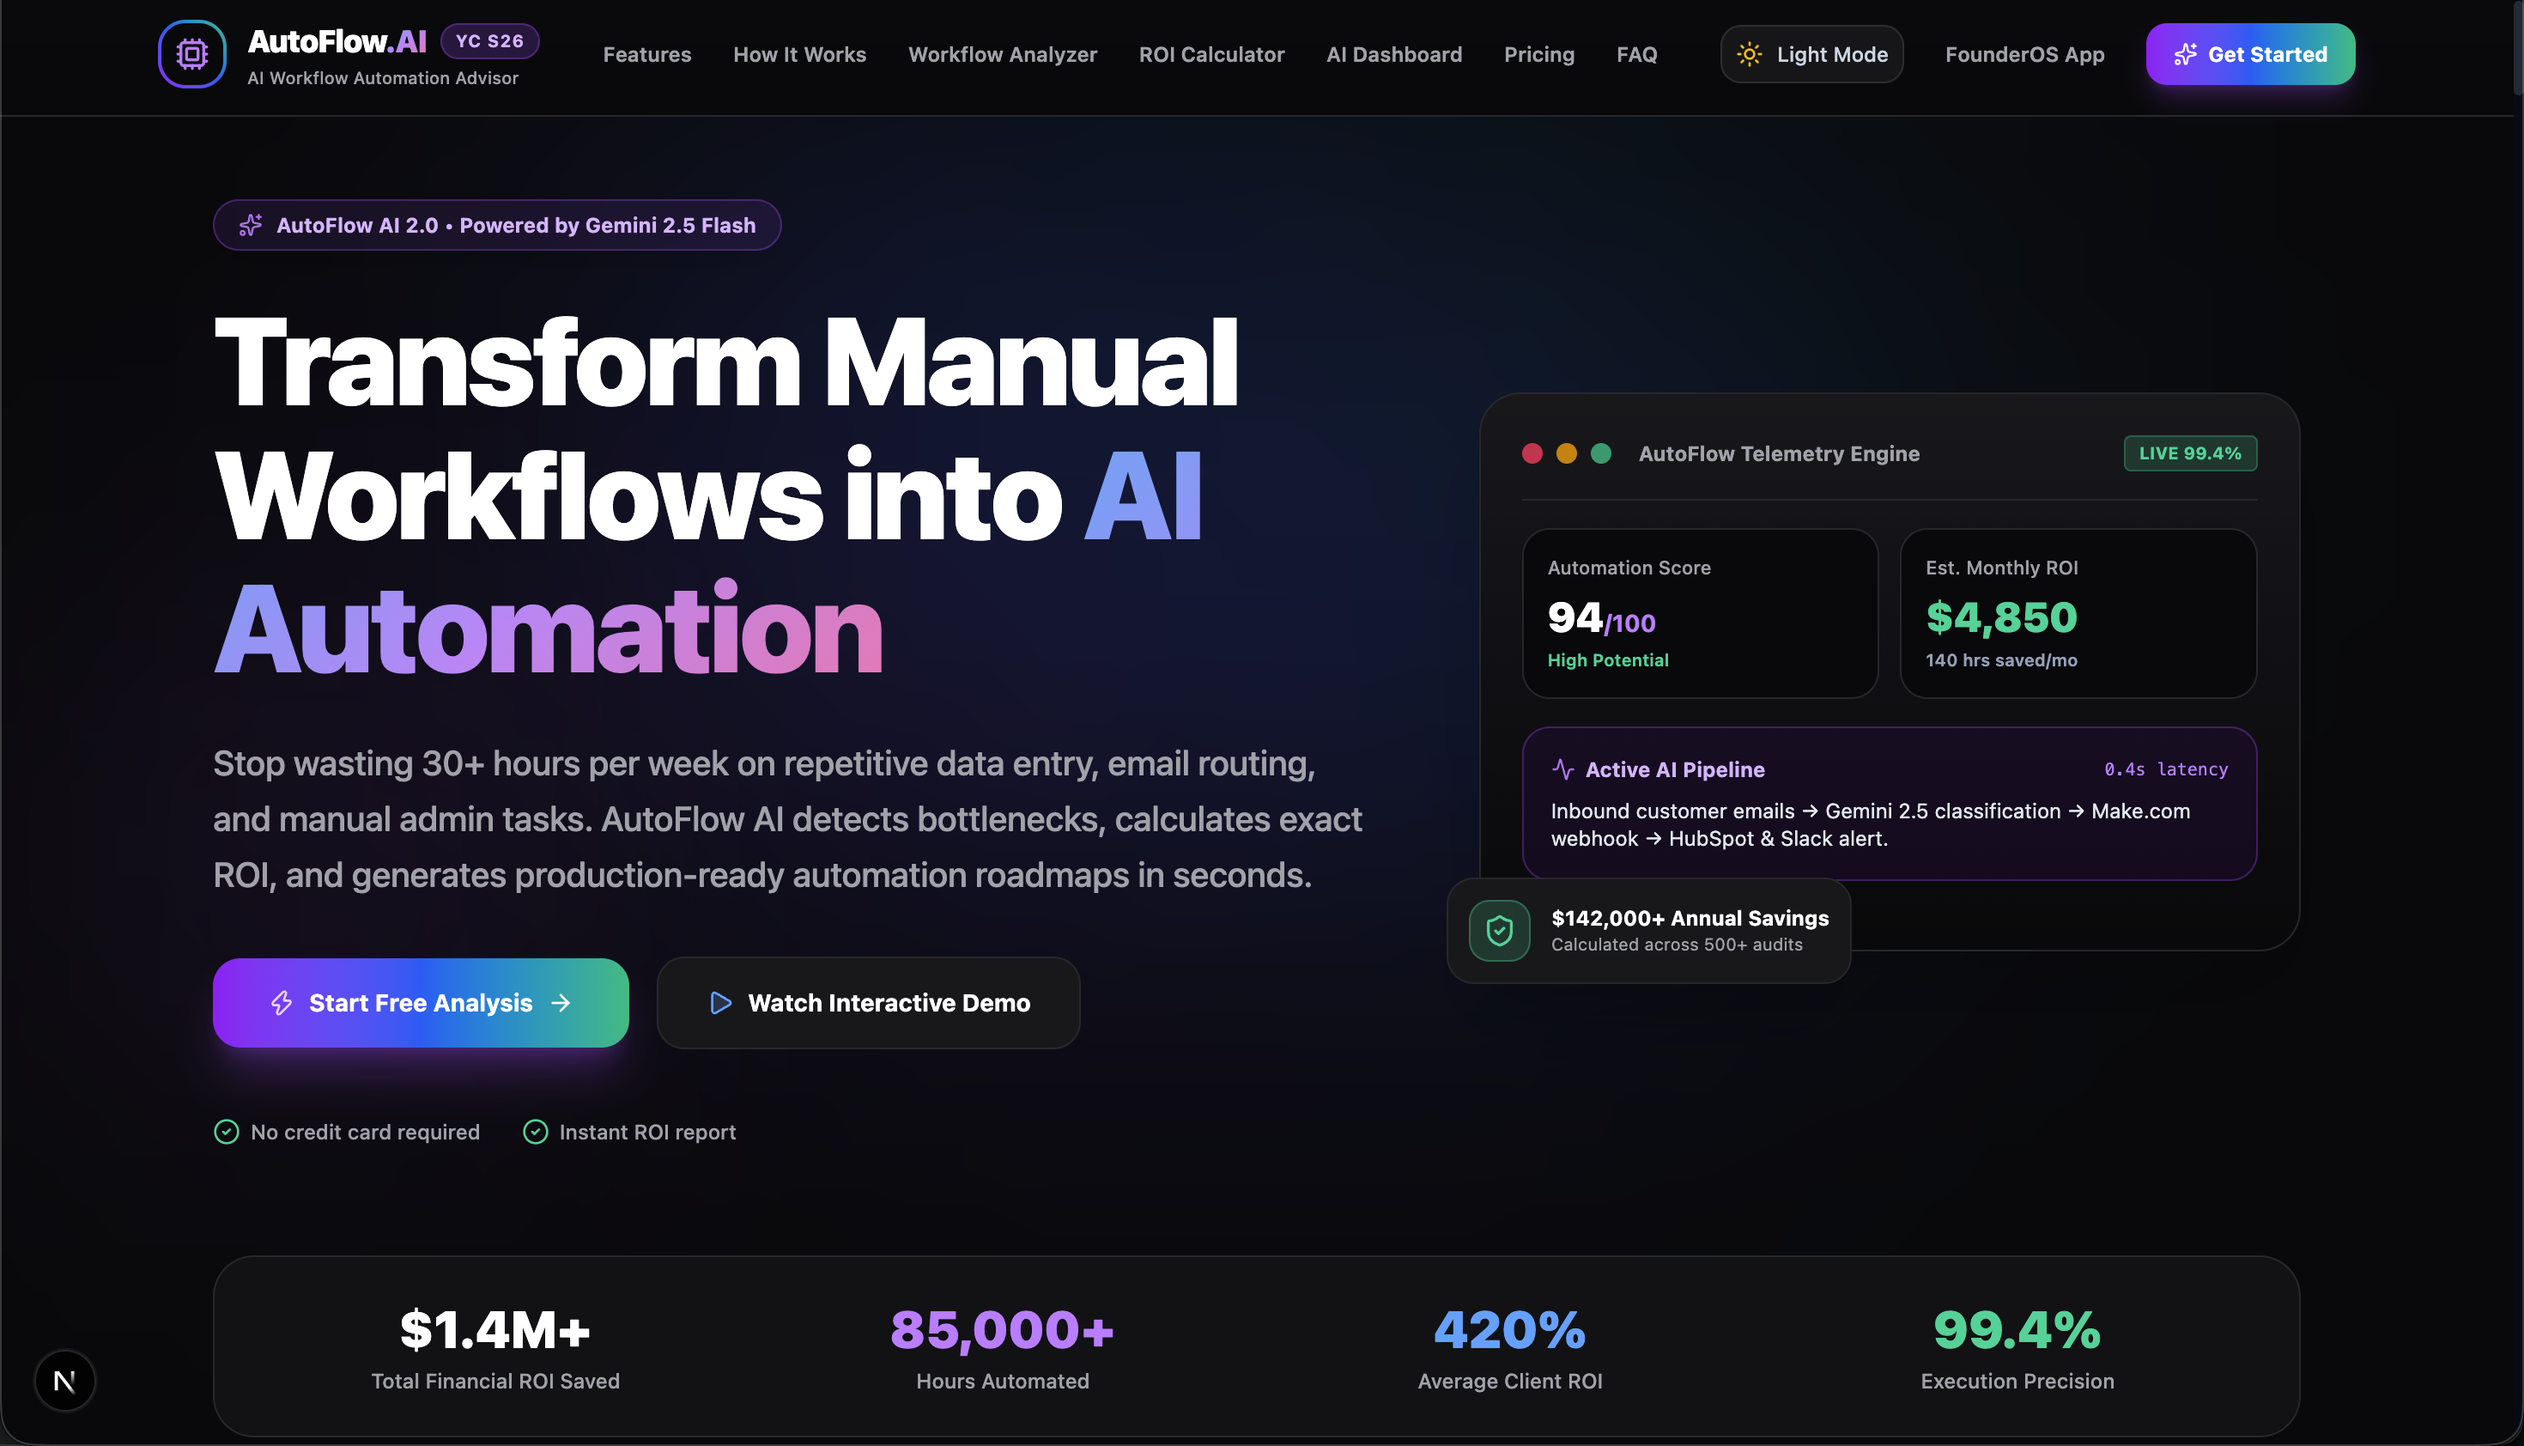
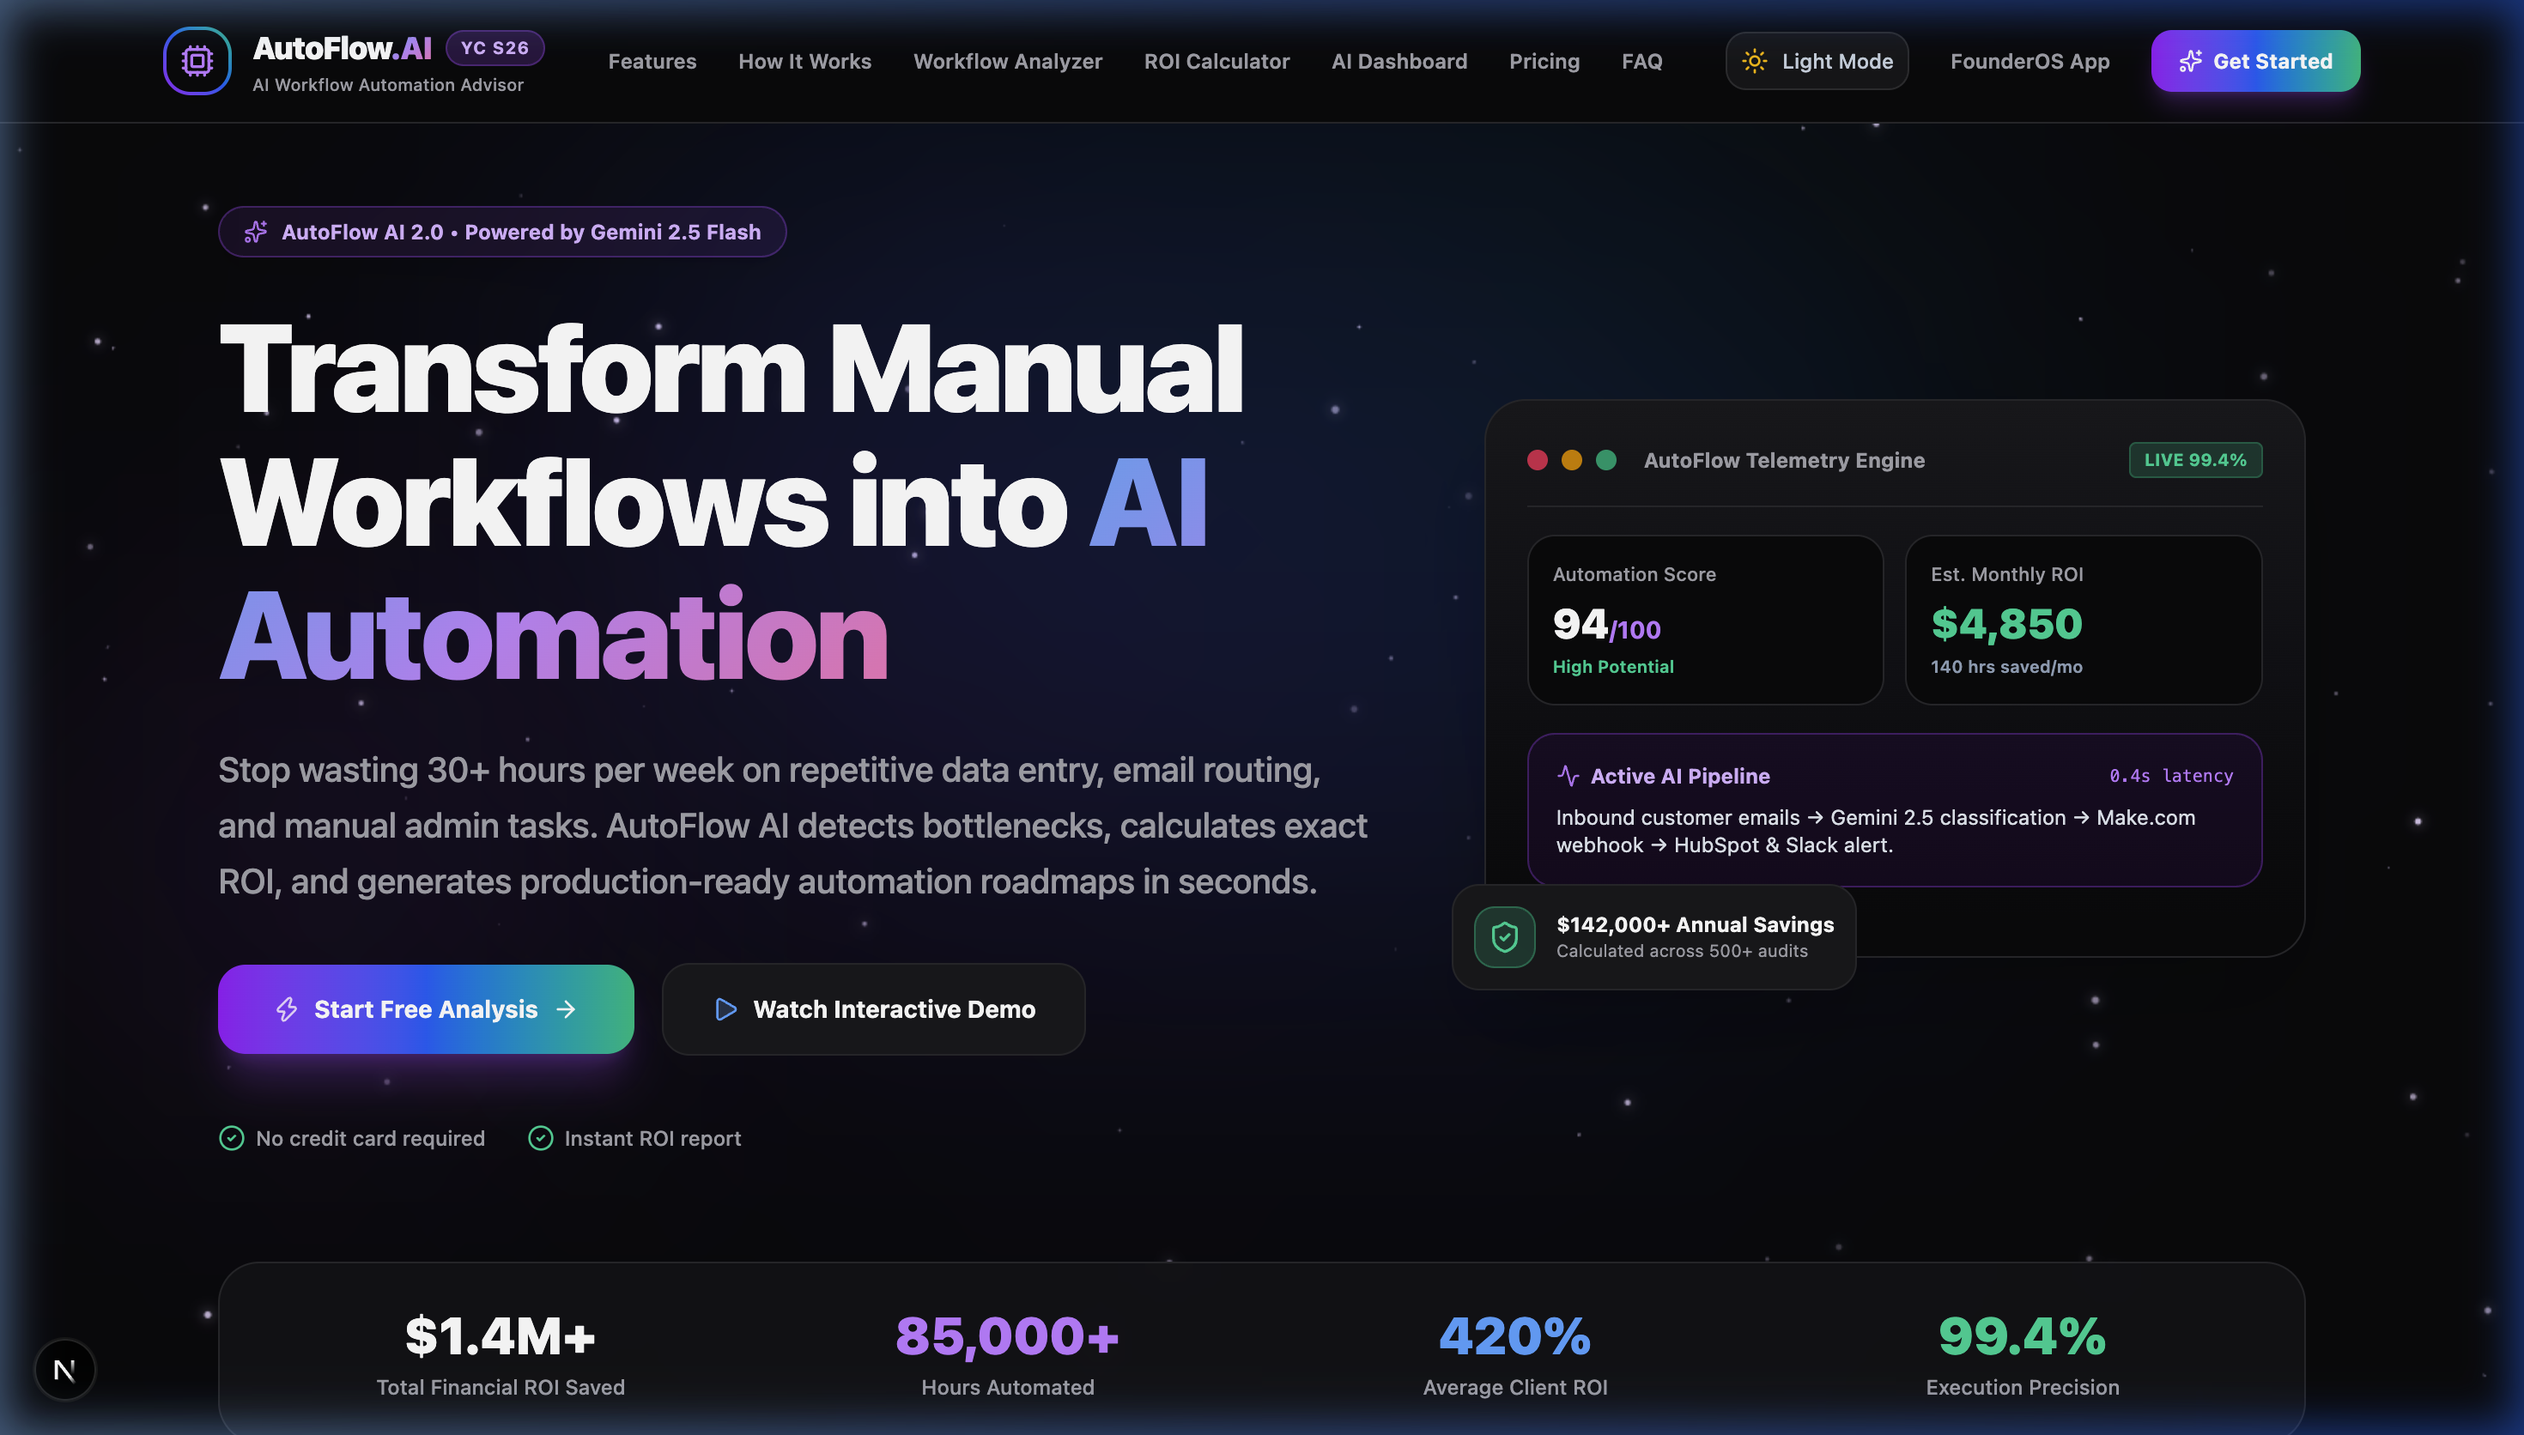
feat: integrate interactive StarsBackground component into AutoFlow AI hero section

diff --git a/src/components/ui/StarsBackground.tsx b/src/components/ui/StarsBackground.tsx
@@ -1,0 +1,125 @@
+"use client";
+
+import React, { useEffect, useRef } from "react";
+import { cn } from "@/lib/utils";
+
+interface StarsBackgroundProps extends React.HTMLAttributes<HTMLDivElement> {
+  factor?: number;
+  speed?: number;
+  starColor?: string;
+  pointerEvents?: boolean;
+}
+
+interface Star {
+  x: number;
+  y: number;
+  size: number;
+  alpha: number;
+  speed: number;
+  twinkleSpeed: number;
+}
+
+export function StarsBackground({
+  factor = 0.05,
+  speed = 50,
+  starColor = "#ffffff",
+  pointerEvents = false,
+  className,
+  children,
+  ...props
+}: StarsBackgroundProps) {
+  const canvasRef = useRef<HTMLCanvasElement | null>(null);
+
+  useEffect(() => {
+    const canvas = canvasRef.current;
+    if (!canvas) return;
+
+    const ctx = canvas.getContext("2d");
+    if (!ctx) return;
+
+    let animationFrameId: number;
+    let stars: Star[] = [];
+
+    const handleResize = () => {
+      if (!canvas) return;
+      canvas.width = canvas.parentElement?.clientWidth || window.innerWidth;
+      canvas.height = canvas.parentElement?.clientHeight || window.innerHeight;
+      initStars();
+    };
+
+    const initStars = () => {
+      if (!canvas) return;
+      const count = Math.floor((canvas.width * canvas.height * factor) / 1000);
+      stars = Array.from({ length: count }, () => ({
+        x: Math.random() * canvas.width,
+        y: Math.random() * canvas.height,
+        size: Math.random() * 1.8 + 0.4,
+        alpha: Math.random() * 0.8 + 0.2,
+        speed: (Math.random() * 0.3 + 0.1) * (speed / 50),
+        twinkleSpeed: Math.random() * 0.02 + 0.005,
+      }));
+    };
+
+    window.addEventListener("resize", handleResize);
+    handleResize();
+
+    const render = () => {
+      if (!canvas || !ctx) return;
+      ctx.clearRect(0, 0, canvas.width, canvas.height);
+
+      stars.forEach((star) => {
+        // Star movement
+        star.y -= star.speed;
+        if (star.y < 0) {
+          star.y = canvas.height;
+          star.x = Math.random() * canvas.width;
+        }
+
+        // Twinkle effect
+        star.alpha += Math.sin(Date.now() * star.twinkleSpeed) * 0.01;
+        star.alpha = Math.max(0.1, Math.min(0.9, star.alpha));
+
+        ctx.save();
+        ctx.beginPath();
+        ctx.arc(star.x, star.y, star.size, 0, Math.PI * 2);
+        ctx.fillStyle = starColor;
+        ctx.globalAlpha = star.alpha;
+
+        // Subtle glow for larger stars
+        if (star.size > 1.2) {
+          ctx.shadowBlur = 8;
+          ctx.shadowColor = starColor;
+        }
+
+        ctx.fill();
+        ctx.restore();
+      });
+
+      animationFrameId = requestAnimationFrame(render);
+    };
+
+    render();
+
+    return () => {
+      window.removeEventListener("resize", handleResize);
+      cancelAnimationFrame(animationFrameId);
+    };
+  }, [factor, speed, starColor]);
+
+  return (
+    <div
+      className={cn(
+        "relative w-full overflow-hidden",
+        pointerEvents ? "pointer-events-auto" : "pointer-events-none",
+        className
+      )}
+      {...props}
+    >
+      <canvas
+        ref={canvasRef}
+        className="absolute inset-0 w-full h-full pointer-events-none z-0"
+      />
+      <div className="relative z-10">{children}</div>
+    </div>
+  );
+}

diff --git a/src/components/autoflow/AutoFlowHero.tsx b/src/components/autoflow/AutoFlowHero.tsx
@@ -3,11 +3,13 @@
 import React from "react";
 import { Sparkles, Play, ArrowRight, CheckCircle2, Zap, Cpu, Activity, ShieldCheck } from "lucide-react";
 import { motion } from "framer-motion";
+import { StarsBackground } from "@/components/ui/StarsBackground";
 
 export default function AutoFlowHero() {
   return (
-    <section className="relative pt-12 pb-20 overflow-hidden">
-      {/* Floating Ambient Gradient Blobs */}
+    <StarsBackground factor={0.08} speed={40} starColor="#e9d5ff">
+      <section className="relative pt-12 pb-20 overflow-hidden">
+        {/* Floating Ambient Gradient Blobs */}
       <div className="absolute top-0 left-1/2 -translate-x-1/2 w-[800px] h-[450px] bg-gradient-to-tr from-purple-600/20 via-blue-600/20 to-emerald-500/10 rounded-full blur-[140px] pointer-events-none" />
       <div className="absolute top-1/3 left-10 w-72 h-72 bg-purple-500/10 rounded-full blur-[100px] pointer-events-none" />
 
@@ -171,5 +173,6 @@ export default function AutoFlowHero() {
         </div>
       </div>
     </section>
+  </StarsBackground>
   );
 }
